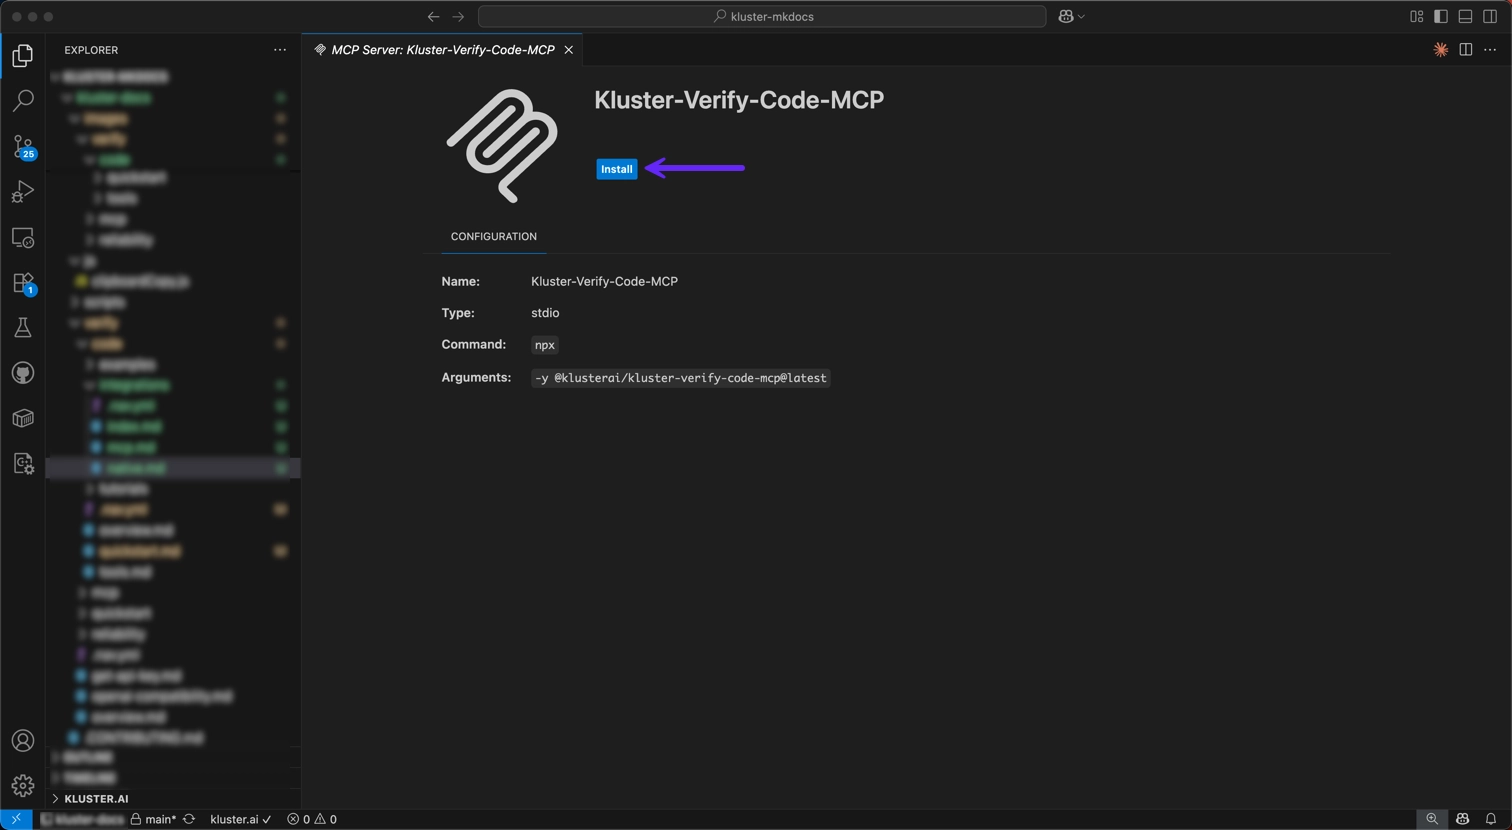
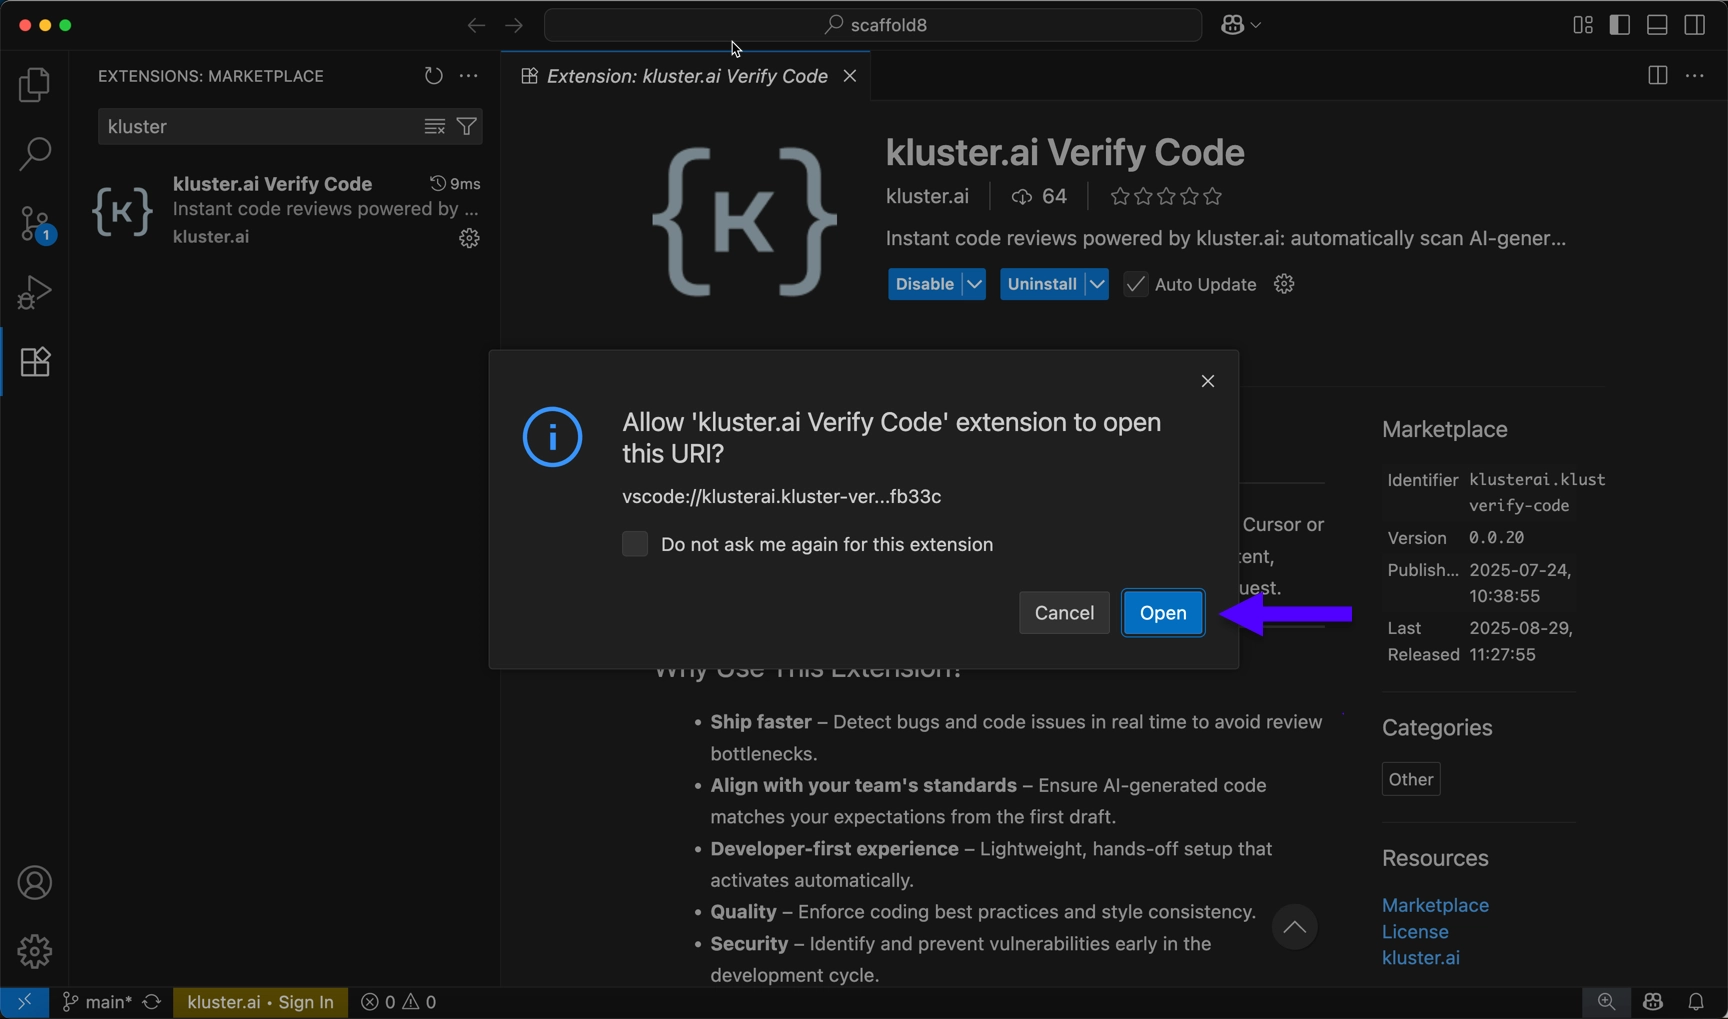
Update VSCode Install Screenshots (#186)
* update vscode images

* llms

* llms

diff --git a/verify/integrations/ide.md b/verify/integrations/ide.md
@@ -25,15 +25,15 @@ Before getting started, ensure you have:
     
     3. Click **Install** to add the extension into Cursor.
 
-        ![Active MCP Tools in Cursor](/images/verify/code/integrations/cursor/cursor-integration-1.webp)
+        ![Extension Installation Prompt in Cursor](/images/verify/code/integrations/cursor/cursor-integration-1.webp)
     
     4. Now that the extension is active, click on **Install** on the bottom left corner to install the MCP tools.
 
-        ![Active MCP Tools in Cursor](/images/verify/code/integrations/cursor/cursor-integration-2.webp)
+        ![MCP Tools Installation Button in Cursor](/images/verify/code/integrations/cursor/cursor-integration-2.webp)
     
     5. To finish the setup, click on **Install** to confirm the MCP settings. 
 
-        ![Active MCP Tools in Cursor](/images/verify/code/integrations/cursor/cursor-integration-3.webp)
+        ![MCP Settings Confirmation in Cursor](/images/verify/code/integrations/cursor/cursor-integration-3.webp)
 
     Once installed, you can verify the setup:
 
@@ -55,38 +55,41 @@ Before getting started, ensure you have:
     
     3. Click **Install** to get the extension.
 
-        ![Active MCP Tools in Cursor](/images/verify/code/integrations/vscode/vscode-integration-0.webp)
+        ![Install Extension](/images/verify/code/integrations/vscode/vscode-integration-0.webp)
 
     4. Select **Trust Publisher & Install**.
 
-        ![Active MCP Tools in Cursor](/images/verify/code/integrations/vscode/vscode-integration-1.webp)
+        ![Trust publisher](/images/verify/code/integrations/vscode/vscode-integration-1.webp)
 
     Now that the extension is installed, you need to login with your kluster.ai account:
        
-    1. Click on **Login** in the bottom right corner.
-       
+    1. Click on **Sign in** in the bottom right corner.
+       ![Sign In](/images/verify/code/integrations/vscode/vscode-integration-2.webp)
+
     2. Choose **Open**. A browser pop-up window will take you to your kluster.ai account. 
 
-        ![Active MCP Tools in Cursor](/images/verify/code/integrations/vscode/vscode-integration-2.webp)
+        ![Open Pop-up](/images/verify/code/integrations/vscode/vscode-integration-3.webp)
           
     3. Click **Open Visual Studio Code**.
 
-        ![Active MCP Tools in Cursor](/images/verify/code/integrations/vscode/vscode-integration-3.webp)
+        ![Open Visual Studio Code](/images/verify/code/integrations/vscode/vscode-integration-4.webp)
 
     4. Click **Open** to install the MCP with your kluster.ai API key.
         
-        ![Active MCP Tools in Cursor](/images/verify/code/integrations/vscode/vscode-integration-4.webp)
+        ![Open and Install MCP](/images/verify/code/integrations/vscode/vscode-integration-5.webp)
 
     5. To complete the setup, click **Install** to accept the MCP configuration for Verify Code. 
     
-         ![Active MCP Tools in Cursor](/images/verify/code/integrations/vscode/vscode-integration-5.webp)
+         ![Install MCP ](/images/verify/code/integrations/vscode/vscode-integration-6.webp)
+    6. Press **Trust** to Install the MCP server.
+    ![MCP Server Trust Installation in VS Code](/images/verify/code/integrations/vscode/vscode-integration-7.webp)
         
     Once installed, verify the setup:
     
     1. Open a Copilot chat window and select the **Tools** button on the bottom right corner.
     2. Scroll down the list and **Kluster-Verify-Code-MCP** should appear. Make sure both tools enabled.
 
-        ![Active MCP Tools in Cursor](/images/verify/code/integrations/vscode/vscode-integration-6.webp)
+        ![Active MCP Tools in VS Code](/images/verify/code/integrations/vscode/vscode-integration-8.webp)
 
 === "Claude Code"
 
